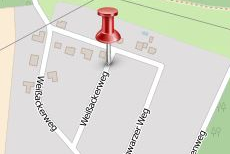
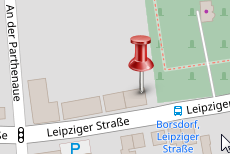
new address in Borsdorf

diff --git a/praxis.html b/praxis.html
@@ -9,21 +9,21 @@
   <link rel="stylesheet" href="theme/default/style.css"/>
   <link href="css/prettyPhoto.css" type="text/css" media="screen" rel="stylesheet" title="prettyPhoto main stylesheet" charset="utf-8" />
   <meta http-equiv="Content-Type" content="text/html; charset=UTF-8"/>
-  <meta name="description" content="Praxis in Machern für Osteopathie und Kinesiologie Madeleine Wabner - Heilpraktikerin"/>
+  <meta name="description" content="Praxis in Borsdorf für Osteopathie und Kinesiologie Madeleine Wabner - Heilpraktikerin"/>
   <meta name="author" content="Madeleine Wabner"/>
-  <meta name="keywords" content="Anfahrt, Parkplatz, Straßenbahn, Fußweg, Machern, Wurzen, Leipzig"/>
-  <meta name="DC.title" content="Praxis in Machern für Osteopathie und Kinesiologie Madeleine Wabner - Heilpraktikerin"/>
+  <meta name="keywords" content="Anfahrt, Parkplatz, Straßenbahn, Fußweg, Borsdorf, Wurzen, Leipzig"/>
+  <meta name="DC.title" content="Praxis in Borsdorf für Osteopathie und Kinesiologie Madeleine Wabner - Heilpraktikerin"/>
   <meta name="DC.creator" content="Madeleine Wabner"/>
-  <meta name="DC.subject" content="Praxis in Machern für Osteopathie und Kinesiologie Madeleine Wabner - Heilpraktikerin"/>
-  <meta name="DC.description" content="Praxis in Machern für Osteopathie und Kinesiologie Madeleine Wabner - Heilpraktikerin"/>
+  <meta name="DC.subject" content="Praxis in Borsdorf für Osteopathie und Kinesiologie Madeleine Wabner - Heilpraktikerin"/>
+  <meta name="DC.description" content="Praxis in Borsdorf für Osteopathie und Kinesiologie Madeleine Wabner - Heilpraktikerin"/>
   <meta name="DC.publisher" content="Madeleine Wabner"/>
   <meta name="DC.contributor" content="Thomas Wabner"/>
   <meta name="DC.contributor" content="Service"/>
   <meta name="DC.rights" content="Alle Rechte liegen beim Autor"/>
   <meta name="geo.region" content="DE-SN" />
-  <meta name="geo.placename" content="Machern" />
+  <meta name="geo.placename" content="Borsdorf" />
   <meta name="geo.region" content="DE-SN" />
-  <meta name="geo.placename" content="Machern" />
+  <meta name="geo.placename" content="Borsdorf" />
   <meta name="geo.position" content="51.367927;12.63306" />
   <meta name="ICBM" content="51.367927, 12.63306" />
   <title>Die Praxis - Praxis f&uuml;r Osteopathie und Kinesiologie Madeleine Wabner - Heilpraktikerin</title>
@@ -48,7 +48,7 @@
        var layerTah = new OpenLayers.Layer.OSM.Osmarender("Tiles@Home"); 
        map.addLayers([layerMapnik,layerTah]);
        // calculate lon lat with http://www.latlong.net/
-       map.setCenter(new OpenLayers.LonLat(12.632976,51.368028).transform(new OpenLayers.Projection("EPSG:4326"), 
+       map.setCenter(new OpenLayers.LonLat(12.538366,51.348006).transform(new OpenLayers.Projection("EPSG:4326"),
 			       new OpenLayers.Projection("EPSG:900913")), 14);
        addMarker();
      } 
@@ -64,7 +64,7 @@
     	 feature = new OpenLayers.Feature(markersLayer, center);
     	 feature.closeBox = true;
     	 feature.data.popupContentHTML = '<div style="background-color:white; padding-left: 5px;">'
-    	        + '<b>Praxis Wabner</b><p>Wei&szlig;ackerweg 10a<br/>04827 Machern</p>' + '</div>';
+    	        + '<b>Praxis Wabner</b><p>Leipziger Strasse 43<br/>04451 Borsdorf</p>' + '</div>';
     	 marker = new OpenLayers.Marker(center, icon);
     	 marker.feature = feature;
     	 
@@ -135,12 +135,13 @@
          <div style="padding-left:20px; padding-top: 20px; padding-right: 10px;">
            <h4>Die Praxis</h4>
            Vor der Praxis stehen ausreichend Parkpl&auml;tze zur Verf&uuml;gung. Nutzen Sie am besten die Parkpl&auml;tze
-           im Wei&szlig;ackerweg oder Schwarzen Weg.
+           in der Leipziger Strasse direkt vor der Praxis.
            <p>
-           Sie erreichen die Praxis auch mit der S-Bahn S6 von Leipzig aus, Haltestelle "Machern". Von dort sind es ca. 15 Minuten Fu&szlig;weg bis zur Praxis.
+           Sie erreichen die Praxis auch mit der S-Bahn von Leipzig aus, Haltestelle "Borsdorf". Von dort sind es ca. 8 Minuten Fu&szlig;weg
+             bis zur Praxis.
            </p>
            <p>
-           Die Praxis befindet sich im Machern.</br>
+           Die Praxis befindet sich im Borsdorf.</br>
            Sie ist schnell und einfach auch von den umliegenden Städten Leipzig, Wurzen, Taucha oder Brandis zu erreichen. 
            </p> 
             <!-- images -->
@@ -172,8 +173,8 @@
               <span itemprop="name">Praxis f&uuml;r Osteopathie und Kinesiologie</span><br/><br/>
               <span itemprop="founder" itemscope itemtype="http://schema.org/Person"><span itemprop="name">Madeleine Wabner</span></span><br/>
               <span itemprop="address" itemscope itemtype="http://schema.org/PostalAddress">
-              <span itemprop="streetAddress">Wei&szlig;ackerweg 10a</span><br/>
-              <span itemprop="postalCode">04827</span> <span itemprop="addressLocality">Machern</span><br/>
+              <span itemprop="streetAddress">Leipziger Strasse 43</span><br/>
+              <span itemprop="postalCode">04451</span> <span itemprop="addressLocality">Borsdorf</span><br/>
               <p/>
               <table style="border-spacing: 0px;"><tr>
               <td>Telefon:</td><td><span itemprop="telephone">0341 12575652</span></td>

diff --git a/index.html b/index.html
@@ -3,16 +3,16 @@
 <html xmlns="http://www.w3.org/1999/xhtml">
 <head>
 <meta http-equiv="Content-Type" content="text/html; charset=UTF-8"/>
-<meta name="description" content="Praxis in Machern für Osteopathie und Kinesiologie Madeleine Wabner - Heilpraktikerin"/>
+<meta name="description" content="Praxis in Borsdorf für Osteopathie und Kinesiologie Madeleine Wabner - Heilpraktikerin"/>
 <meta name="author" content="Madeleine Wabner"/>
 <meta name="keywords" content="Osteopathie, Kinesiologie, Heilpraktiker, Alternativmedizin, Praxis, Leipzig,
-Machern, Wurzen, Heilung, Krankheit, Hilfe, Rückenschmerzen, Schulterschmerzen, Schreibabies, Kiss Syndrom, Spuckkinder,
+Borsdorf, Wurzen, Heilung, Krankheit, Hilfe, Rückenschmerzen, Schulterschmerzen, Schreibabies, Kiss Syndrom, Spuckkinder,
 Blockaden, Entspannung, Therapie, Spagyrik, Sanum-Enderlein, Schüßlersalze, Bachblüten, Migräne, Menstruationsbeschwerden,
 Schwangerschaft, Kopfschmerz"/>
-<meta name="DC.title" content="Praxis in Machern für Osteopathie und Kinesiologie Madeleine Wabner - Heilpraktikerin"/>
+<meta name="DC.title" content="Praxis in Borsdorf für Osteopathie und Kinesiologie Madeleine Wabner - Heilpraktikerin"/>
 <meta name="DC.creator" content="Madeleine Wabner"/>
-<meta name="DC.subject" content="Praxis in Machern für Osteopathie und Kinesiologie Madeleine Wabner - Heilpraktikerin"/>
-<meta name="DC.description" content="Praxis in machern für Osteopathie und Kinesiologie Madeleine Wabner - Heilpraktikerin"/>
+<meta name="DC.subject" content="Praxis in Borsdorf für Osteopathie und Kinesiologie Madeleine Wabner - Heilpraktikerin"/>
+<meta name="DC.description" content="Praxis in Borsdorf für Osteopathie und Kinesiologie Madeleine Wabner - Heilpraktikerin"/>
 <meta name="DC.publisher" content="Madeleine Wabner"/>
 <meta name="DC.contributor" content="Thomas Wabner"/>
 <meta name="DC.contributor" content="Service"/>
@@ -87,8 +87,8 @@ Schwangerschaft, Kopfschmerz"/>
               <span itemprop="name">Praxis f&uuml;r Osteopathie und Kinesiologie</span><br/><br/>
               <span itemprop="founder" itemscope itemtype="http://schema.org/Person"><span itemprop="name">Madeleine Wabner</span></span><br/>
               <span itemprop="address" itemscope itemtype="http://schema.org/PostalAddress">
-              <span itemprop="streetAddress">Wei&szlig;ackerweg 10a</span><br/>
-              <span itemprop="postalCode">04827</span> <span itemprop="addressLocality">Machern</span><br/>
+              <span itemprop="streetAddress">Leipziger Strasse 43</span><br/>
+              <span itemprop="postalCode">04451</span> <span itemprop="addressLocality">Borsdorf</span><br/>
               <p/>
               <table style="border-spacing: 0px;"><tr>
               <td>Telefon:</td><td><span itemprop="telephone">0341 12575652</span></td>

diff --git a/index2.html b/index2.html
@@ -3,16 +3,16 @@
 <html xmlns="http://www.w3.org/1999/xhtml">
 <head>
 <meta http-equiv="Content-Type" content="text/html; charset=UTF-8"/>
-<meta name="description" content="Praxis in Machern für Osteopathie und Kinesiologie Madeleine Wabner - Heilpraktikerin"/>
+<meta name="description" content="Praxis in Borsdorf für Osteopathie und Kinesiologie Madeleine Wabner - Heilpraktikerin"/>
 <meta name="author" content="Madeleine Wabner"/>
 <meta name="keywords" content="Osteopathie, Kinesiologie, Heilpraktiker, Alternativmedizin, Praxis, Leipzig,
-Machern, Wurzen, Heilung, Krankheit, Hilfe, Rückenschmerzen, Schulterschmerzen, Schreibabies, Kiss Syndrom, Spuckkinder,
+Borsdorf, Wurzen, Heilung, Krankheit, Hilfe, Rückenschmerzen, Schulterschmerzen, Schreibabies, Kiss Syndrom, Spuckkinder,
 Blockaden, Entspannung, Therapie, Spagyrik, Sanum-Enderlein, Schüßlersalze, Bachblüten, Migräne, Menstruationsbeschwerden,
 Schwangerschaft, Kopfschmerz"/>
-<meta name="DC.title" content="Praxis in Machern für Osteopathie und Kinesiologie Madeleine Wabner - Heilpraktikerin"/>
+<meta name="DC.title" content="Praxis in Borsdorf für Osteopathie und Kinesiologie Madeleine Wabner - Heilpraktikerin"/>
 <meta name="DC.creator" content="Madeleine Wabner"/>
-<meta name="DC.subject" content="Praxis in Machern für Osteopathie und Kinesiologie Madeleine Wabner - Heilpraktikerin"/>
-<meta name="DC.description" content="Praxis in Machern für Osteopathie und Kinesiologie Madeleine Wabner - Heilpraktikerin"/>
+<meta name="DC.subject" content="Praxis in Borsdorf für Osteopathie und Kinesiologie Madeleine Wabner - Heilpraktikerin"/>
+<meta name="DC.description" content="Praxis in Borsdorf für Osteopathie und Kinesiologie Madeleine Wabner - Heilpraktikerin"/>
 <meta name="DC.publisher" content="Madeleine Wabner"/>
 <meta name="DC.contributor" content="Thomas Wabner"/>
 <meta name="DC.contributor" content="Service"/>
@@ -86,8 +86,8 @@ Schwangerschaft, Kopfschmerz"/>
               <span itemprop="name">Praxis f&uuml;r Osteopathie und Kinesiologie</span><br/><br/>
               <span itemprop="founder" itemscope itemtype="http://schema.org/Person"><span itemprop="name">Madeleine Wabner</span></span><br/>
               <span itemprop="address" itemscope itemtype="http://schema.org/PostalAddress">
-              <span itemprop="streetAddress">Wei&szlig;ackerweg 10a</span><br/>
-              <span itemprop="postalCode">04827</span> <span itemprop="addressLocality">Machern</span><br/>
+              <span itemprop="streetAddress">Leipziger Strasse 43</span><br/>
+              <span itemprop="postalCode">04451</span> <span itemprop="addressLocality">Borsdorf</span><br/>
               <p/>
               <table style="border-spacing: 0px;"><tr>
               <td>Telefon:</td><td><span itemprop="telephone">0341 12575652</span></td>

diff --git a/impressum.html b/impressum.html
@@ -3,13 +3,13 @@
 <html xmlns="http://www.w3.org/1999/xhtml">
 <head>
 <meta http-equiv="Content-Type" content="text/html; charset=UTF-8"/>
-<meta name="description" content="Praxis in Machern für Osteopathie und Kinesiologie Madeleine Wabner - Heilpraktikerin"/>
+<meta name="description" content="Praxis in Borsdorf für Osteopathie und Kinesiologie Madeleine Wabner - Heilpraktikerin"/>
 <meta name="author" content="Madeleine Wabner"/>
 <meta name="keywords" content="Recht, Haftungsausschluß, Steuernummer, Adresse, Impressum"/>
-<meta name="DC.title" content="Praxis in Machern für Osteopathie und Kinesiologie Madeleine Wabner - Heilpraktikerin"/>
+<meta name="DC.title" content="Praxis in Borsdorf für Osteopathie und Kinesiologie Madeleine Wabner - Heilpraktikerin"/>
 <meta name="DC.creator" content="Madeleine Wabner"/>
-<meta name="DC.subject" content="Praxis in Machern für Osteopathie und Kinesiologie Madeleine Wabner - Heilpraktikerin"/>
-<meta name="DC.description" content="Praxis in Machern für Osteopathie und Kinesiologie Madeleine Wabner - Heilpraktikerin"/>
+<meta name="DC.subject" content="Praxis in Borsdorf für Osteopathie und Kinesiologie Madeleine Wabner - Heilpraktikerin"/>
+<meta name="DC.description" content="Praxis in Borsdorf für Osteopathie und Kinesiologie Madeleine Wabner - Heilpraktikerin"/>
 <meta name="DC.publisher" content="Madeleine Wabner"/>
 <meta name="DC.contributor" content="Thomas Wabner"/>
 <meta name="DC.contributor" content="Service"/>
@@ -69,8 +69,8 @@
            <h4>Impressum</h4>
            <h4>Praxis f&uuml;r Osteopathie und Kinesiologie</h4>
            Madeleine Wabner<br/>
-           Wei&szlig;ackerweg 10a<br/>
-           04827 Machern<br/>
+           Leipziger Strasse 43<br/>
+           04451 Borsdorf<br/>
            <p>
            Steuernummer: 238/285/03634
            </p>
@@ -126,8 +126,8 @@
               <span itemprop="name">Praxis f&uuml;r Osteopathie und Kinesiologie</span><br/><br/>
               <span itemprop="founder" itemscope itemtype="http://schema.org/Person"><span itemprop="name">Madeleine Wabner</span></span><br/>
               <span itemprop="address" itemscope itemtype="http://schema.org/PostalAddress">
-              <span itemprop="streetAddress">Wei&szlig;ackerweg 10a</span><br/>
-              <span itemprop="postalCode">04827</span> <span itemprop="addressLocality">Machern</span><br/>
+              <span itemprop="streetAddress">Leipziger Strasse 43</span><br/>
+              <span itemprop="postalCode">04451</span> <span itemprop="addressLocality">Borsdorf</span><br/>
               <p/>
               <table style="border-spacing: 0px;"><tr>
               <td>Telefon:</td><td><span itemprop="telephone">0341 12575652</span></td>

diff --git a/osteopathie.html b/osteopathie.html
@@ -3,14 +3,14 @@
 <html xmlns="http://www.w3.org/1999/xhtml">
 <head>
 <meta http-equiv="Content-Type" content="text/html; charset=UTF-8"/>
-<meta name="description" content="Praxis in Machern für Osteopathie und Kinesiologie Madeleine Wabner - Heilpraktikerin"/>
+<meta name="description" content="Praxis in Borsdorf für Osteopathie und Kinesiologie Madeleine Wabner - Heilpraktikerin"/>
 <meta name="author" content="Madeleine Wabner"/>
 <meta name="keywords" content="Osteopathie, manuelle Therapie, Diagnose, Behandlung, Alternativmedizin, Muskeln, Knochen,
 Bindegewebe, Nervensystem, Organe, Schmerzen, Gleichgewicht, Anatomie, Physiologie, Biochemie"/>
-<meta name="DC.title" content="Praxis in Machern für Osteopathie und Kinesiologie Madeleine Wabner - Heilpraktikerin"/>
+<meta name="DC.title" content="Praxis in Borsdorf für Osteopathie und Kinesiologie Madeleine Wabner - Heilpraktikerin"/>
 <meta name="DC.creator" content="Madeleine Wabner"/>
-<meta name="DC.subject" content="Praxis in Machern für Osteopathie und Kinesiologie Madeleine Wabner - Heilpraktikerin"/>
-<meta name="DC.description" content="Praxis in Machern für Osteopathie und Kinesiologie Madeleine Wabner - Heilpraktikerin"/>
+<meta name="DC.subject" content="Praxis in Borsdorf für Osteopathie und Kinesiologie Madeleine Wabner - Heilpraktikerin"/>
+<meta name="DC.description" content="Praxis in Borsdorf für Osteopathie und Kinesiologie Madeleine Wabner - Heilpraktikerin"/>
 <meta name="DC.publisher" content="Madeleine Wabner"/>
 <meta name="DC.contributor" content="Thomas Wabner"/>
 <meta name="DC.contributor" content="Service"/>
@@ -172,8 +172,8 @@ Bindegewebe, Nervensystem, Organe, Schmerzen, Gleichgewicht, Anatomie, Physiolog
               <span itemprop="name">Praxis f&uuml;r Osteopathie und Kinesiologie</span><br/><br/>
               <span itemprop="founder" itemscope itemtype="http://schema.org/Person"><span itemprop="name">Madeleine Wabner</span></span><br/>
               <span itemprop="address" itemscope itemtype="http://schema.org/PostalAddress">
-              <span itemprop="streetAddress">Wei&szlig;ackerweg 10a</span><br/>
-              <span itemprop="postalCode">04827</span> <span itemprop="addressLocality">Machern</span><br/>
+              <span itemprop="streetAddress">Leipziger Strasse 43</span><br/>
+              <span itemprop="postalCode">04451</span> <span itemprop="addressLocality">Borsdorf</span><br/>
               <p/>
               <table style="border-spacing: 0px;"><tr>
               <td>Telefon:</td><td><span itemprop="telephone">0341 12575652</span></td>

diff --git a/kinesiologie.html b/kinesiologie.html
@@ -3,15 +3,15 @@
 <html xmlns="http://www.w3.org/1999/xhtml">
 <head>
 <meta http-equiv="Content-Type" content="text/html; charset=UTF-8"/>
-<meta name="description" content="Praxis in Machern für Osteopathie und Kinesiologie Madeleine Wabner - Heilpraktikerin"/>
+<meta name="description" content="Praxis in Borsdorf für Osteopathie und Kinesiologie Madeleine Wabner - Heilpraktikerin"/>
 <meta name="author" content="Madeleine Wabner"/>
 <meta name="keywords" content="Kinesiologie, Diagnosefindung, Muskeltest, Therapeut, Übungen, Zellgedächtnis, 
 Nervensystem, Korrekturen, Blockaden, Selbstheilungkräfte, Krankheitsbeschwerden, Schlüsselkonflikte,
 Harmonisierung"/>
-<meta name="DC.title" content="Praxis in Machern für Osteopathie und Kinesiologie Madeleine Wabner - Heilpraktikerin"/>
+<meta name="DC.title" content="Praxis in Borsdorf für Osteopathie und Kinesiologie Madeleine Wabner - Heilpraktikerin"/>
 <meta name="DC.creator" content="Madeleine Wabner"/>
-<meta name="DC.subject" content="Praxis in Machern für Osteopathie und Kinesiologie Madeleine Wabner - Heilpraktikerin"/>
-<meta name="DC.description" content="Praxis in Machern für Osteopathie und Kinesiologie Madeleine Wabner - Heilpraktikerin"/>
+<meta name="DC.subject" content="Praxis in Borsdorf für Osteopathie und Kinesiologie Madeleine Wabner - Heilpraktikerin"/>
+<meta name="DC.description" content="Praxis in Borsdorf für Osteopathie und Kinesiologie Madeleine Wabner - Heilpraktikerin"/>
 <meta name="DC.publisher" content="Madeleine Wabner"/>
 <meta name="DC.contributor" content="Thomas Wabner"/>
 <meta name="DC.contributor" content="Service"/>
@@ -108,8 +108,8 @@ Harmonisierung"/>
               <span itemprop="name">Praxis f&uuml;r Osteopathie und Kinesiologie</span><br/><br/>
               <span itemprop="founder" itemscope itemtype="http://schema.org/Person"><span itemprop="name">Madeleine Wabner</span></span><br/>
               <span itemprop="address" itemscope itemtype="http://schema.org/PostalAddress">
-              <span itemprop="streetAddress">Wei&szlig;ackerweg 10a</span><br/>
-              <span itemprop="postalCode">04827</span> <span itemprop="addressLocality">Machern</span><br/>
+              <span itemprop="streetAddress">Leipziger Strasse 43</span><br/>
+              <span itemprop="postalCode">04451</span> <span itemprop="addressLocality">Borsdorf</span><br/>
               <p/>
               <table style="border-spacing: 0px;"><tr>
               <td>Telefon:</td><td><span itemprop="telephone">0341 12575652</span></td>

diff --git a/about_me.html b/about_me.html
@@ -3,13 +3,13 @@
 <html xmlns="http://www.w3.org/1999/xhtml">
 <head>
 <meta http-equiv="Content-Type" content="text/html; charset=UTF-8"/>
-<meta name="description" content="Praxis in Machern für Osteopathie und Kinesiologie Madeleine Wabner - Heilpraktikerin"/>
+<meta name="description" content="Praxis in Borsdorf für Osteopathie und Kinesiologie Madeleine Wabner - Heilpraktikerin"/>
 <meta name="author" content="Madeleine Wabner"/>
 <meta name="keywords" content="Physiotherapie, Manuelle Therapie, BAO, IFAOP, Heipraktiker, Osteopath, Reiki, Abschluß, Heilen, Krankheit"/>
-<meta name="DC.title" content="Praxis in Machern für Osteopathie und Kinesiologie Madeleine Wabner - Heilpraktikerin"/>
+<meta name="DC.title" content="Praxis in Borsdorf für Osteopathie und Kinesiologie Madeleine Wabner - Heilpraktikerin"/>
 <meta name="DC.creator" content="Madeleine Wabner"/>
-<meta name="DC.subject" content="Praxis in Machern für Osteopathie und Kinesiologie Madeleine Wabner - Heilpraktikerin"/>
-<meta name="DC.description" content="Praxis in Machern für Osteopathie und Kinesiologie Madeleine Wabner - Heilpraktikerin"/>
+<meta name="DC.subject" content="Praxis in Borsdorf für Osteopathie und Kinesiologie Madeleine Wabner - Heilpraktikerin"/>
+<meta name="DC.description" content="Praxis in Borsdorf für Osteopathie und Kinesiologie Madeleine Wabner - Heilpraktikerin"/>
 <meta name="DC.publisher" content="Madeleine Wabner"/>
 <meta name="DC.contributor" content="Thomas Wabner"/>
 <meta name="DC.contributor" content="Service"/>
@@ -137,8 +137,8 @@
               <span itemprop="name">Praxis f&uuml;r Osteopathie und Kinesiologie</span><br/><br/>
               <span itemprop="founder" itemscope itemtype="http://schema.org/Person"><span itemprop="name">Madeleine Wabner</span></span><br/>
               <span itemprop="address" itemscope itemtype="http://schema.org/PostalAddress">
-              <span itemprop="streetAddress">Wei&szlig;ackerweg 10a</span><br/>
-              <span itemprop="postalCode">04827</span> <span itemprop="addressLocality">Machern</span><br/>
+              <span itemprop="streetAddress">Leipziger Strasse 43</span><br/>
+              <span itemprop="postalCode">04451</span> <span itemprop="addressLocality">Borsdorf</span><br/>
               <p/>
               <table style="border-spacing: 0px;"><tr>
               <td>Telefon:</td><td><span itemprop="telephone">0341 12575652</span></td>

diff --git a/kosten.html b/kosten.html
@@ -3,13 +3,13 @@
 <html xmlns="http://www.w3.org/1999/xhtml">
 <head>
 <meta http-equiv="Content-Type" content="text/html; charset=UTF-8"/>
-<meta name="description" content="Praxis in Machern für Osteopathie und Kinesiologie Madeleine Wabner - Heilpraktikerin"/>
+<meta name="description" content="Praxis in Borsdorf für Osteopathie und Kinesiologie Madeleine Wabner - Heilpraktikerin"/>
 <meta name="author" content="Madeleine Wabner"/>
 <meta name="keywords" content="Bezahlung, Bar, sofort, Gebührenordnung,Krankenkasse, Heilpraktikerkosten"/>
-<meta name="DC.title" content="Praxis in Machern für Osteopathie und Kinesiologie Madeleine Wabner - Heilpraktikerin"/>
+<meta name="DC.title" content="Praxis in Borsdorf für Osteopathie und Kinesiologie Madeleine Wabner - Heilpraktikerin"/>
 <meta name="DC.creator" content="Madeleine Wabner"/>
-<meta name="DC.subject" content="Praxis in Machern für Osteopathie und Kinesiologie Madeleine Wabner - Heilpraktikerin"/>
-<meta name="DC.description" content="Praxis in Machern für Osteopathie und Kinesiologie Madeleine Wabner - Heilpraktikerin"/>
+<meta name="DC.subject" content="Praxis in Borsdorf für Osteopathie und Kinesiologie Madeleine Wabner - Heilpraktikerin"/>
+<meta name="DC.description" content="Praxis in Borsdorf für Osteopathie und Kinesiologie Madeleine Wabner - Heilpraktikerin"/>
 <meta name="DC.publisher" content="Madeleine Wabner"/>
 <meta name="DC.contributor" content="Thomas Wabner"/>
 <meta name="DC.contributor" content="Service"/>
@@ -92,8 +92,8 @@
               <span itemprop="name">Praxis f&uuml;r Osteopathie und Kinesiologie</span><br/><br/>
               <span itemprop="founder" itemscope itemtype="http://schema.org/Person"><span itemprop="name">Madeleine Wabner</span></span><br/>
               <span itemprop="address" itemscope itemtype="http://schema.org/PostalAddress">
-              <span itemprop="streetAddress">Wei&szlig;ackerweg 10a</span><br/>
-              <span itemprop="postalCode">04827</span> <span itemprop="addressLocality">Machern</span><br/>
+              <span itemprop="streetAddress">Leipziger Strasse 43</span><br/>
+              <span itemprop="postalCode">04451</span> <span itemprop="addressLocality">Borsdorf</span><br/>
               <p/>
               <table style="border-spacing: 0px;"><tr>
               <td>Telefon:</td><td><span itemprop="telephone">0341 12575652</span></td>
